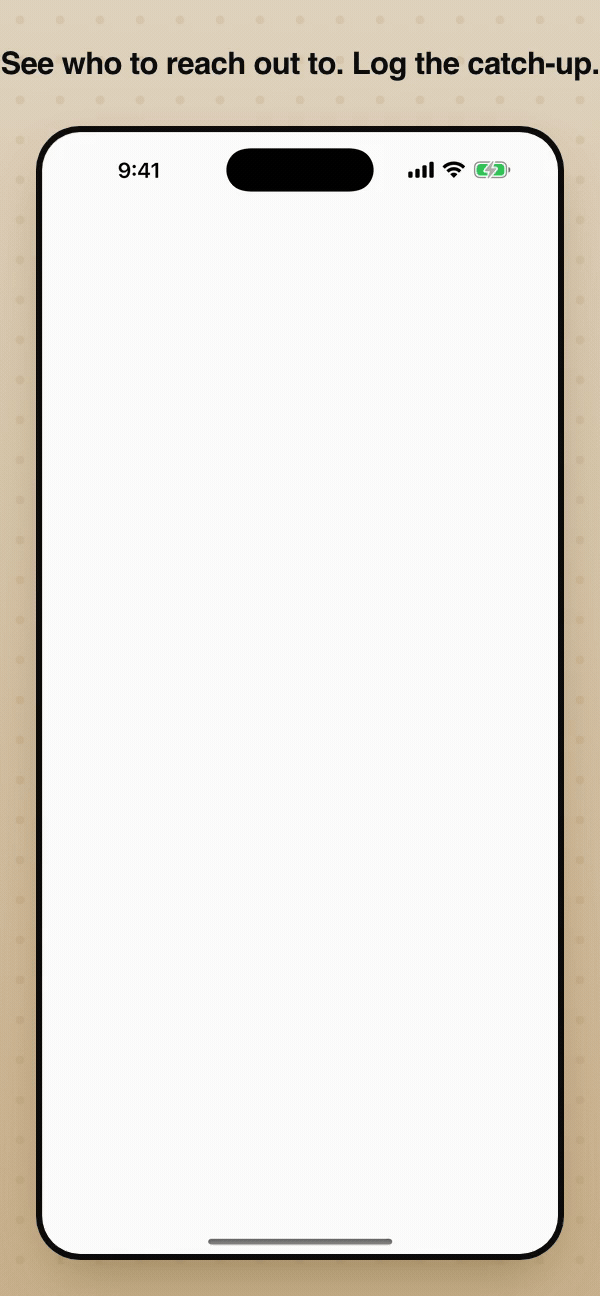
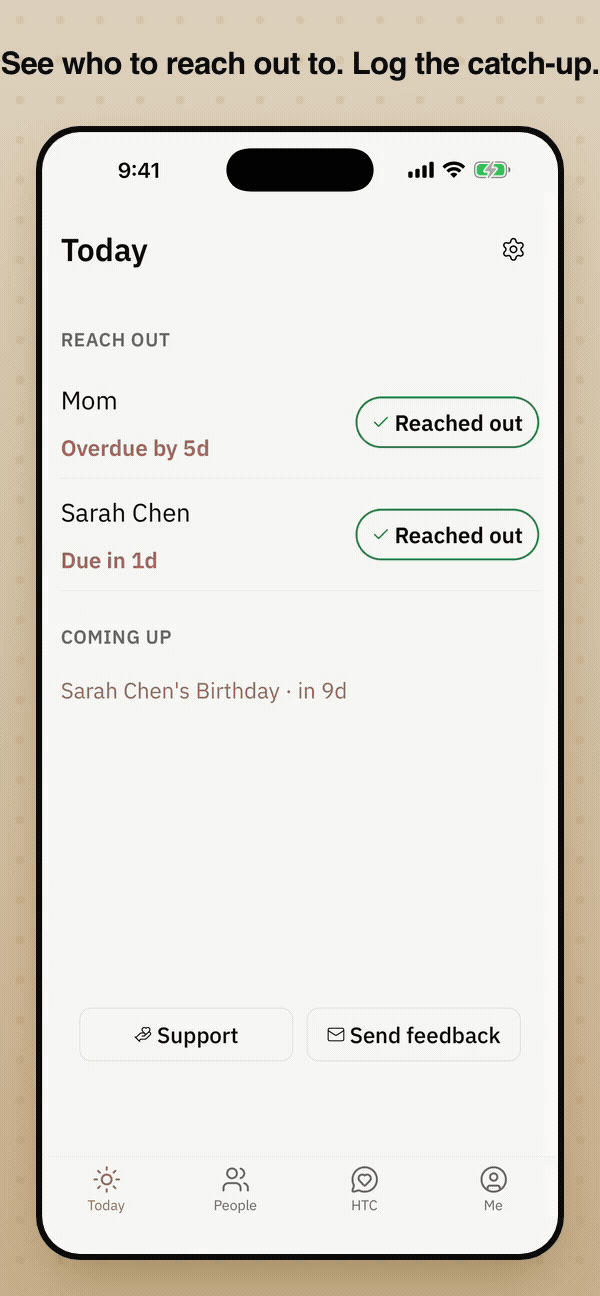
Relationships demo: cut the blank opening, so the still shows the app
The recording opened on three seconds of empty screen. The reduced-motion
still is generated from the recording's first frame, so anyone who turns
motion down saw a blank phone, and everyone else saw one while the page
loaded. Trimmed to the first frame that shows Today, and regenerated the
still. Alt text now also covers the catch-up the recording logs.

The app's own copy of the recording still has the blank opening, tracked
as factory ticket tend-demo-blank-lead-in.

diff --git a/src/data/catalog.ts b/src/data/catalog.ts
@@ -300,7 +300,7 @@ const RAW_APPS: AppRecord[] = [
     seoTitle: 'Keep up with the people you love, privately',
     keywords: 'relationships, friends, family, friendship, reminder, connection, birthday, stay in touch, no account, free',
     icon: '/assets/app-icons/tend.png',
-    demoAlt: 'The Today screen showing who to reach out to and what is coming up',
+    demoAlt: 'The Today screen showing who to reach out to and what is coming up, then a catch-up logged against one person',
     permissions: 'Notifications (optional)',
     network: 'None',
     license: 'MIT',
